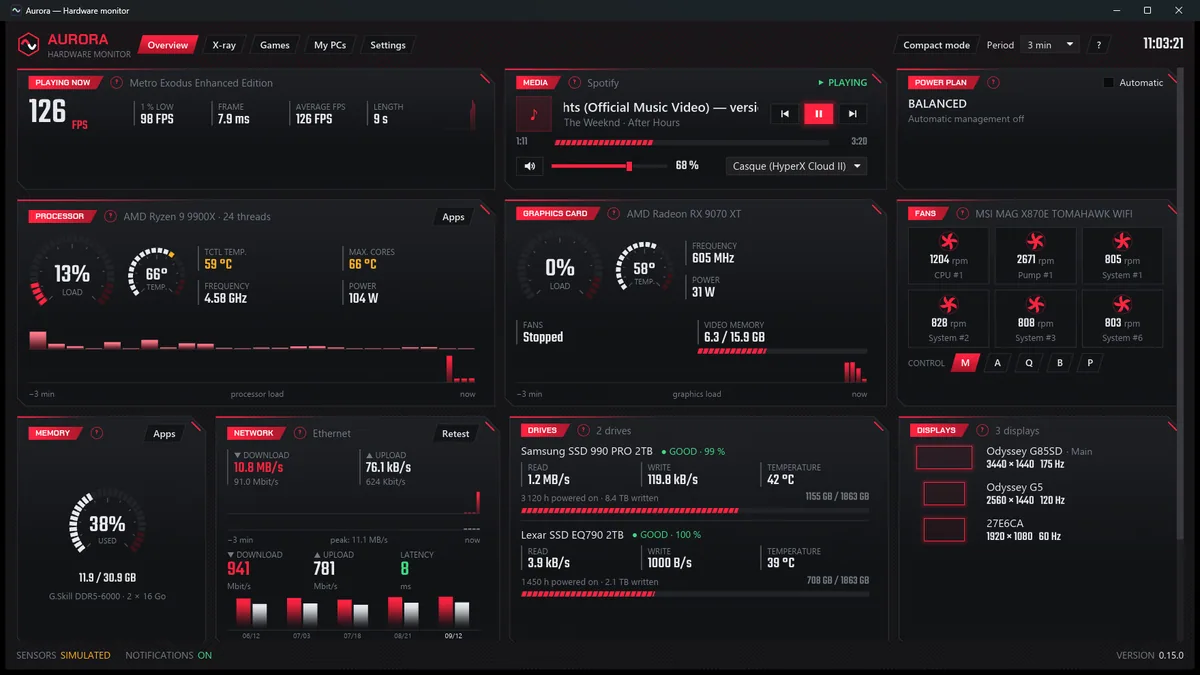
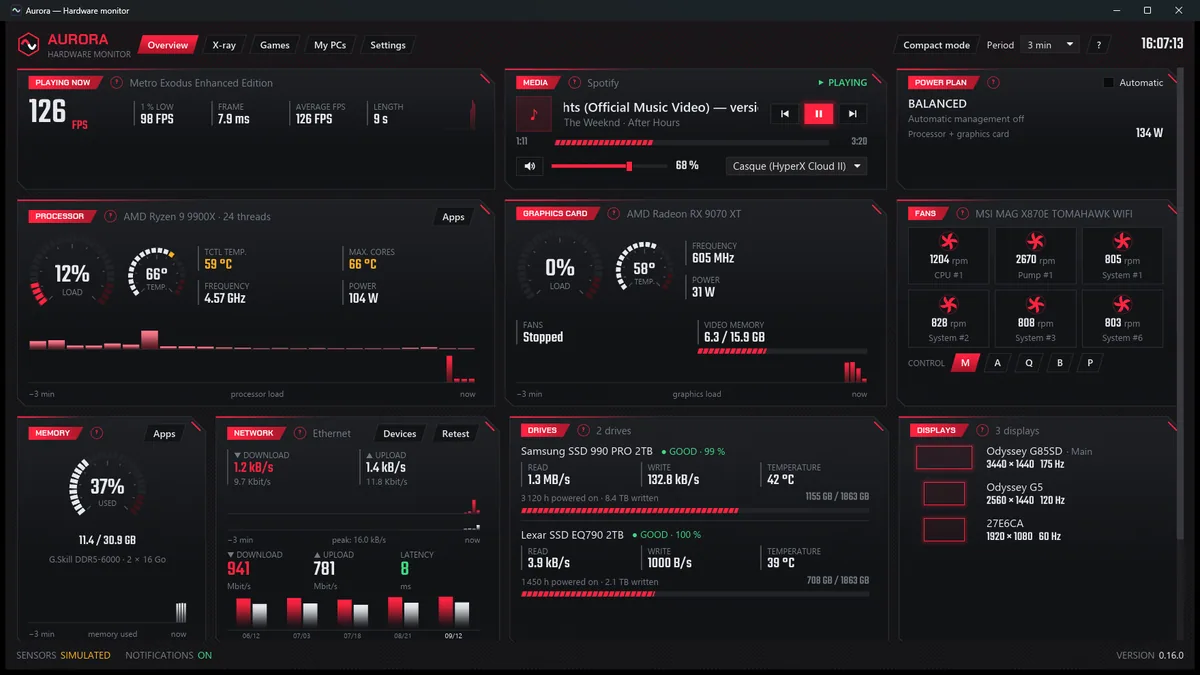
Le site montre le tableau de bord 0.16.0
Captures refaites avec la 0.16.0 (courbe de mémoire, consommation totale), nouvelle
section « Appareils du réseau » avec sa capture de démonstration, bouton Ko-fi dans
la barre du haut, et les images s'agrandissent quand on clique dessus.

diff --git a/index.html b/index.html
@@ -148,6 +148,42 @@
   .meta { color: var(--dim); font-size: 15px; }
   .meta b { font-family: Teko, sans-serif; font-size: 20px; font-weight: 600; color: var(--ink); letter-spacing: .5px; }
 
+  /* Ko-fi dans la barre : présent sans crier, le cœur suffit à le faire remarquer. */
+  .kofi {
+    display: inline-flex; align-items: center; gap: 7px; text-decoration: none; white-space: nowrap;
+    font: 600 13px/1 Rajdhani, sans-serif; letter-spacing: .6px; color: var(--ink);
+    padding: 7px 13px; border-radius: 999px; box-shadow: inset 0 0 0 1px var(--panel-edge);
+  }
+  .kofi:hover { box-shadow: inset 0 0 0 1px var(--accent); }
+  .kofi svg { width: 14px; height: 14px; fill: var(--accent); flex: none; }
+  /* Sur un téléphone, la barre doit loger le logo, le cœur et les deux langues : on resserre tout. */
+  @media (max-width: 560px) {
+    .kofi span { display: none; }
+    .kofi { padding: 7px 9px; }
+    .bar { gap: 9px; padding-inline: 12px; }
+    .switch button { padding: 7px 9px; }
+  }
+
+  /* Les captures s'agrandissent au clic : elles sont pleines de petits chiffres qu'on veut lire. */
+  figure img, .shot img { cursor: zoom-in; }
+  figure img:focus-visible, .shot img:focus-visible { outline: 3px solid var(--accent); outline-offset: 3px; }
+  .loupe {
+    position: fixed; inset: 0; z-index: 50; display: none; place-items: center;
+    padding: clamp(12px, 3vw, 40px); background: rgba(0, 0, 0, .93); cursor: zoom-out;
+  }
+  .loupe[open] { display: grid; }
+  .loupe img { max-width: 100%; max-height: 100%; width: auto; height: auto; border: 1px solid var(--panel-edge); }
+  .loupe .fermer {
+    position: absolute; top: 14px; right: 16px; width: 40px; height: 40px; cursor: pointer;
+    background: transparent; color: #fff; border: 1px solid rgba(255, 255, 255, .35); border-radius: 50%;
+    font: 600 20px/1 "Chakra Petch", sans-serif;
+  }
+  .loupe .fermer:hover { border-color: var(--accent); color: var(--accent); }
+  .loupe .legende {
+    position: absolute; bottom: 16px; left: 0; right: 0; text-align: center;
+    color: #b9c0c9; font-size: 14px; padding-inline: 20px;
+  }
+
   .facts { display: flex; flex-wrap: wrap; gap: 8px 22px; color: var(--dim); font-size: 15px; letter-spacing: .3px; }
   .facts span::before { content: "◆"; color: var(--accent); margin-right: 7px; font-size: 10px; vertical-align: 2px; }
 
@@ -208,6 +244,10 @@
   </div>
   <div class="name">AURORA</div>
   <div class="sp"></div>
+  <a class="kofi" href="https://ko-fi.com/auroraapp" rel="noopener">
+    <svg viewBox="0 0 24 24" aria-hidden="true"><path d="M12 21s-7.5-4.7-9.6-9A5.4 5.4 0 0 1 12 6.3 5.4 5.4 0 0 1 21.6 12c-2.1 4.3-9.6 9-9.6 9z"/></svg>
+    <span class="fr">Offrir un café</span><span class="en">Buy a coffee</span>
+  </a>
   <div class="switch" role="group" aria-label="Langue / Language">
     <button id="btn-fr" type="button" aria-pressed="true">FRANÇAIS</button>
     <button id="btn-en" type="button" aria-pressed="false">ENGLISH</button>
@@ -265,13 +305,13 @@
       <div><dt><span class="fr">Disques</span><span class="en">Drives</span></dt>
         <dd><span class="fr">santé SMART, vitesses, température, espace, To écrits</span><span class="en">SMART health, speeds, temperature, space, TB written</span></dd></div>
       <div><dt><span class="fr">Mémoire</span><span class="en">Memory</span></dt>
-        <dd><span class="fr">utilisation, et les barrettes que le BIOS décrit</span><span class="en">usage, and the sticks your BIOS describes</span></dd></div>
+        <dd><span class="fr">utilisation, courbe des dernières minutes, et les barrettes que le BIOS décrit</span><span class="en">usage, a graph of the last few minutes, and the sticks your BIOS describes</span></dd></div>
       <div><dt><span class="fr">Réseau</span><span class="en">Network</span></dt>
         <dd><span class="fr">débits en direct, et un test de vitesse à la demande</span><span class="en">live throughput, and a speed test on demand</span></dd></div>
       <div><dt><span class="fr">Jeux</span><span class="en">Games</span></dt>
         <dd><span class="fr">FPS, 1 % bas, temps d'image, résumé de la partie</span><span class="en">FPS, 1 % low, frame time, session summary</span></dd></div>
       <div><dt><span class="fr">Alimentation</span><span class="en">Power</span></dt>
-        <dd><span class="fr">le mode de Windows, changé tout seul si tu veux</span><span class="en">the Windows plan, switched for you if you like</span></dd></div>
+        <dd><span class="fr">la consommation du PC en watts, et le mode de Windows, changé tout seul si tu veux</span><span class="en">the PC's draw in watts, and the Windows plan, switched for you if you like</span></dd></div>
     </dl>
   </section>
 
@@ -358,6 +398,28 @@
         <span class="en">Sharing is <strong>off by default</strong>. Once on, it is read-only: the only remote command possible is the music, and that can be unticked.</span>
       </p>
       <figure><img src="img/mespc.webp" width="1200" height="576" alt="L'onglet Mes PC : le partage de ce PC, la liste des PC trouvés sur le réseau et le panneau du code QR pour le téléphone."></figure>
+    </div>
+  </section>
+
+  <section>
+    <div class="panel">
+      <div class="tag"><span class="fr">APPAREILS DU RÉSEAU</span><span class="en">NETWORK DEVICES</span></div>
+      <h2><span class="fr">Sais-tu ce qui est branché chez toi ?</span><span class="en">Do you know what is plugged in at your place?</span></h2>
+      <p>
+        <span class="fr">Un bouton dans la carte Réseau ouvre la liste de ce qui vit sur ton réseau : adresse, nom, et le fabricant deviné d'après l'adresse matérielle. C'est souvent là qu'on découvre que sa télé, son écran ou son thermostat sont connectés depuis des mois.</span>
+        <span class="en">A button on the Network card opens the list of what lives on your network: address, name, and the maker guessed from the hardware address. This is often where you find out your TV, your monitor or your thermostat have been connected for months.</span>
+      </p>
+      <p>
+        <span class="fr">Aurora <strong>n'envoie rien sur ton réseau</strong> : elle lit ce que Windows connaît déjà. Et les 13 042 préfixes de fabricants voyagent dans l'application, pour n'avoir rien à demander à Internet.</span>
+        <span class="en">Aurora <strong>sends nothing over your network</strong>: it reads what Windows already knows. And the 13,042 manufacturer prefixes travel inside the application, so there is nothing to ask the Internet.</span>
+      </p>
+      <figure class="shot">
+        <img src="img/appareils.webp" width="736" height="612" alt="La fenêtre Appareils du réseau : adresse, nom, fabricant et adresse matérielle de chaque appareil, avec son état en ligne.">
+        <figcaption>
+          <span class="fr">Un appareil sans nom qui s'invente une adresse, c'est un téléphone récent : il fait exprès, pour ne pas être suivi d'un réseau à l'autre.</span>
+          <span class="en">A nameless device with a made-up address is a recent phone: it does that on purpose, so it cannot be followed from one network to the next.</span>
+        </figcaption>
+      </figure>
     </div>
   </section>
 
@@ -561,6 +623,52 @@
      À reporter si la page est regénérée depuis l'artefact Claude, qui ne le contient pas. -->
 <script type="module" src="https://static.cloudflareinsights.com/beacon.min.js"
         data-cf-beacon='{"token": "2b2e9afa214040b4842912487d06564f"}'></script>
+
+<div class="loupe" id="loupe" role="dialog" aria-modal="true" aria-label="Image agrandie / Enlarged image">
+  <button class="fermer" type="button" id="loupe-fermer" aria-label="Fermer / Close">&times;</button>
+  <img id="loupe-image" alt="">
+  <div class="legende" id="loupe-legende"></div>
+</div>
+
+<script>
+  // Cliquer une capture l'agrandit : elles sont pleines de petits chiffres qu'on veut pouvoir lire.
+  (function () {
+    var loupe = document.getElementById('loupe');
+    var image = document.getElementById('loupe-image');
+    var legende = document.getElementById('loupe-legende');
+    var revenir = null;
+
+    function ouvrir(source) {
+      image.src = source.currentSrc || source.src;
+      image.alt = source.alt || '';
+      legende.textContent = source.alt || '';
+      loupe.setAttribute('open', '');
+      document.body.style.overflow = 'hidden';
+      revenir = source;
+      document.getElementById('loupe-fermer').focus();
+    }
+
+    function fermer() {
+      loupe.removeAttribute('open');
+      document.body.style.overflow = '';
+      // L'image reste chargée : la vider ferait clignoter à la réouverture.
+      if (revenir) { revenir.focus(); revenir = null; }
+    }
+
+    document.querySelectorAll('figure img, .shot img').forEach(function (img) {
+      img.tabIndex = 0;
+      img.setAttribute('role', 'button');
+      img.addEventListener('click', function () { ouvrir(img); });
+      img.addEventListener('keydown', function (event) {
+        if (event.key === 'Enter' || event.key === ' ') { event.preventDefault(); ouvrir(img); }
+      });
+    });
+    loupe.addEventListener('click', fermer);
+    document.addEventListener('keydown', function (event) {
+      if (event.key === 'Escape' && loupe.hasAttribute('open')) { fermer(); }
+    });
+  })();
+</script>
 
 </body>
 </html>
